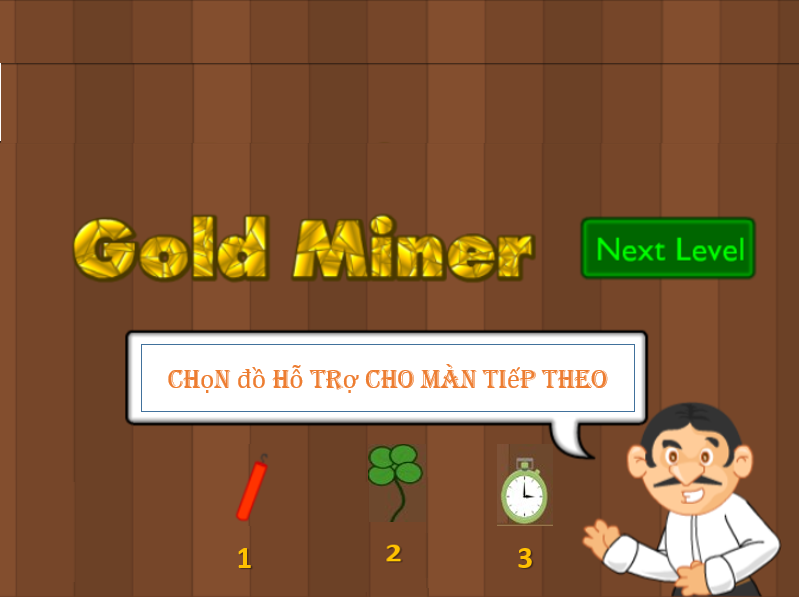
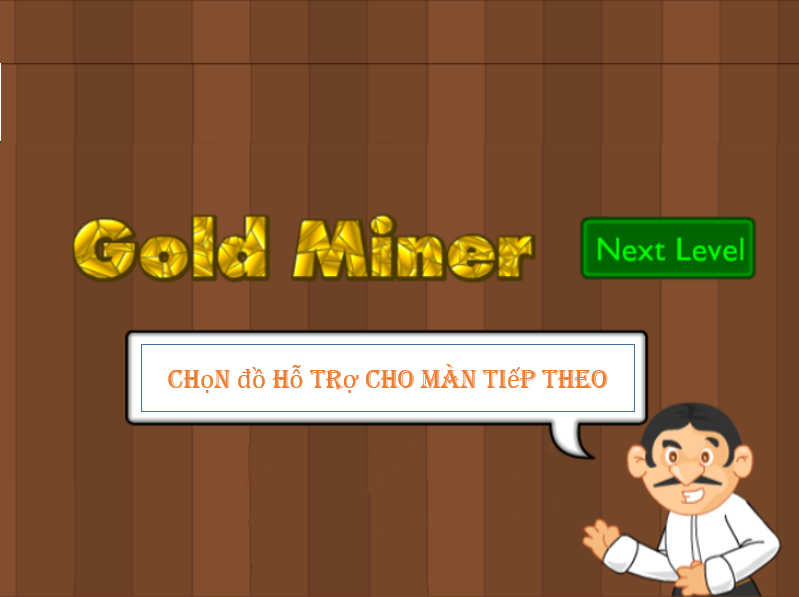
chỉnh sửa chuyển màn

diff --git a/Controller/Listener.java b/Controller/Listener.java
@@ -60,17 +60,32 @@ public class Listener extends Frame {
         x.addMouseListener(new MouseListener() {
             @Override
             public void mouseClicked(MouseEvent e) {
-                if ((e.getX() >= 50 && e.getX() <= 367) && (e.getY() >= 50 && e.getY() <= 337)) {
-                    ((Start_Screen) Game_Manager.getInstance().getStackScreen().peek()).startGame();
-                }
-                if (e.getX() >= 300 && e.getX() <= 600 && e.getY() >= 400 && e.getY() <= 500) {
-                    ((game_over) Game_Manager.getInstance().getStackScreen().peek()).resetGame();
-                }
-                if (e.getX() >= 580 && e.getX() <= 752 && e.getY() >= 218 && e.getY() <= 282) {
-                    ((Screen_nextlevel) (Game_Manager.getInstance().getStackScreen().peek())).click();
-                }
-                if (e.getX() >= 391 && e.getX() <= 671 && e.getY() >= 510 && e.getY() <= 550) {
-                    ((Screen_win) (Game_Manager.getInstance().getStackScreen().peek())).click();
+                Object screen = Game_Manager.getInstance().getStackScreen().peek();
+                int mx = e.getX();
+                int my = e.getY();
+
+                if (screen instanceof Start_Screen) {
+                    if ((mx >= 50 && mx <= 367) && (my >= 50 && my <= 337)) {
+                        ((Start_Screen) screen).startGame();
+                    }
+                } else if (screen instanceof game_over) {
+                    if (mx >= 300 && mx <= 600 && my >= 400 && my <= 500) {
+                        ((game_over) screen).resetGame();
+                    }
+                } else if (screen instanceof Screen_nextlevel snl) {
+                    if (snl.rectMuaTnt.contains(mx, my)) {
+                        snl.add_tnt();
+                    } else if (snl.rectMuaChiso.contains(mx, my)) {
+                        snl.increase_chiso();
+                    } else if (snl.rectMuaTg.contains(mx, my)) {
+                        snl.increase_time();
+                    } else if (mx >= 580 && mx <= 752 && my >= 218 && my <= 282) {
+                        snl.click();
+                    }
+                } else if (screen instanceof Screen_win) {
+                    if (mx >= 391 && mx <= 671 && my >= 510 && my <= 550) {
+                        ((Screen_win) screen).click();
+                    }
                 }
             }
 
@@ -91,7 +106,6 @@ public class Listener extends Frame {
 
             @Override
             public void mouseExited(MouseEvent e) {
-
             }
         });
         x.addKeyListener(new KeyListener() {
@@ -123,30 +137,6 @@ public class Listener extends Frame {
                             gs2.huyDovat();
                         } else if (screen instanceof Game_Screen3 gs3) {
                             gs3.huyDovat();
-                        }
-                        break;
-
-                    case KeyEvent.VK_1:
-                        if (screen instanceof Screen_nextlevel snl) {
-                            snl.add_tnt();
-                        }
-                        break;
-
-                    case KeyEvent.VK_2:
-                        if (screen instanceof Screen_nextlevel snl) {
-                            snl.increase_chiso();
-                        }
-                        break;
-
-                    case KeyEvent.VK_3:
-                        if (screen instanceof Screen_nextlevel snl) {
-                            snl.increase_time();
-                        }
-                        break;
-
-                    case KeyEvent.VK_SPACE:
-                        if (screen instanceof Screen_nextlevel snl) {
-                            snl.click();
                         }
                         break;
                 }

diff --git a/Controller/Screen_nextlevel.java b/Controller/Screen_nextlevel.java
@@ -7,13 +7,19 @@ import java.awt.Graphics;
 import java.awt.image.BufferedImage;
 import java.io.File;
 import javax.imageio.ImageIO;
+import java.awt.Rectangle;
 
 /**
  *
  * @author Administrator
  */
 public class Screen_nextlevel implements Screen {
-    BufferedImage image;
+    BufferedImage image, muatg, muachiso, muatnt;
+    // Vị trí và kích thước vật phẩm (giả sử mỗi ảnh 64x64, bạn chỉnh lại nếu cần)
+    public final Rectangle rectMuaTnt = new Rectangle(100, 450, 64, 64);
+    public final Rectangle rectMuaChiso = new Rectangle(300, 450, 64, 64);
+    public final Rectangle rectMuaTg = new Rectangle(500, 450, 64, 64);
+
     private int chiso = 1;
     private int time = 30;
     private int them_tnt = 0;
@@ -21,6 +27,9 @@ public class Screen_nextlevel implements Screen {
     public Screen_nextlevel() {
         try {
             image = ImageIO.read(getClass().getResource("/Resources/nextman.png"));
+            muatg = ImageIO.read(new File("Resources/muatg.png"));
+            muachiso = ImageIO.read(new File("Resources/muachiso.png"));
+            muatnt = ImageIO.read(new File("Resources/muatnt.png"));
         } catch (Exception e) {
             e.printStackTrace();
         }
@@ -61,5 +70,8 @@ public class Screen_nextlevel implements Screen {
     @Override
     public void draw(Graphics g) {
         g.drawImage(image, 0, 0, null);
+        g.drawImage(muatnt, rectMuaTnt.x, rectMuaTnt.y, null);
+        g.drawImage(muachiso, rectMuaChiso.x, rectMuaChiso.y, null);
+        g.drawImage(muatg, rectMuaTg.x, rectMuaTg.y, null);
     }
 }
